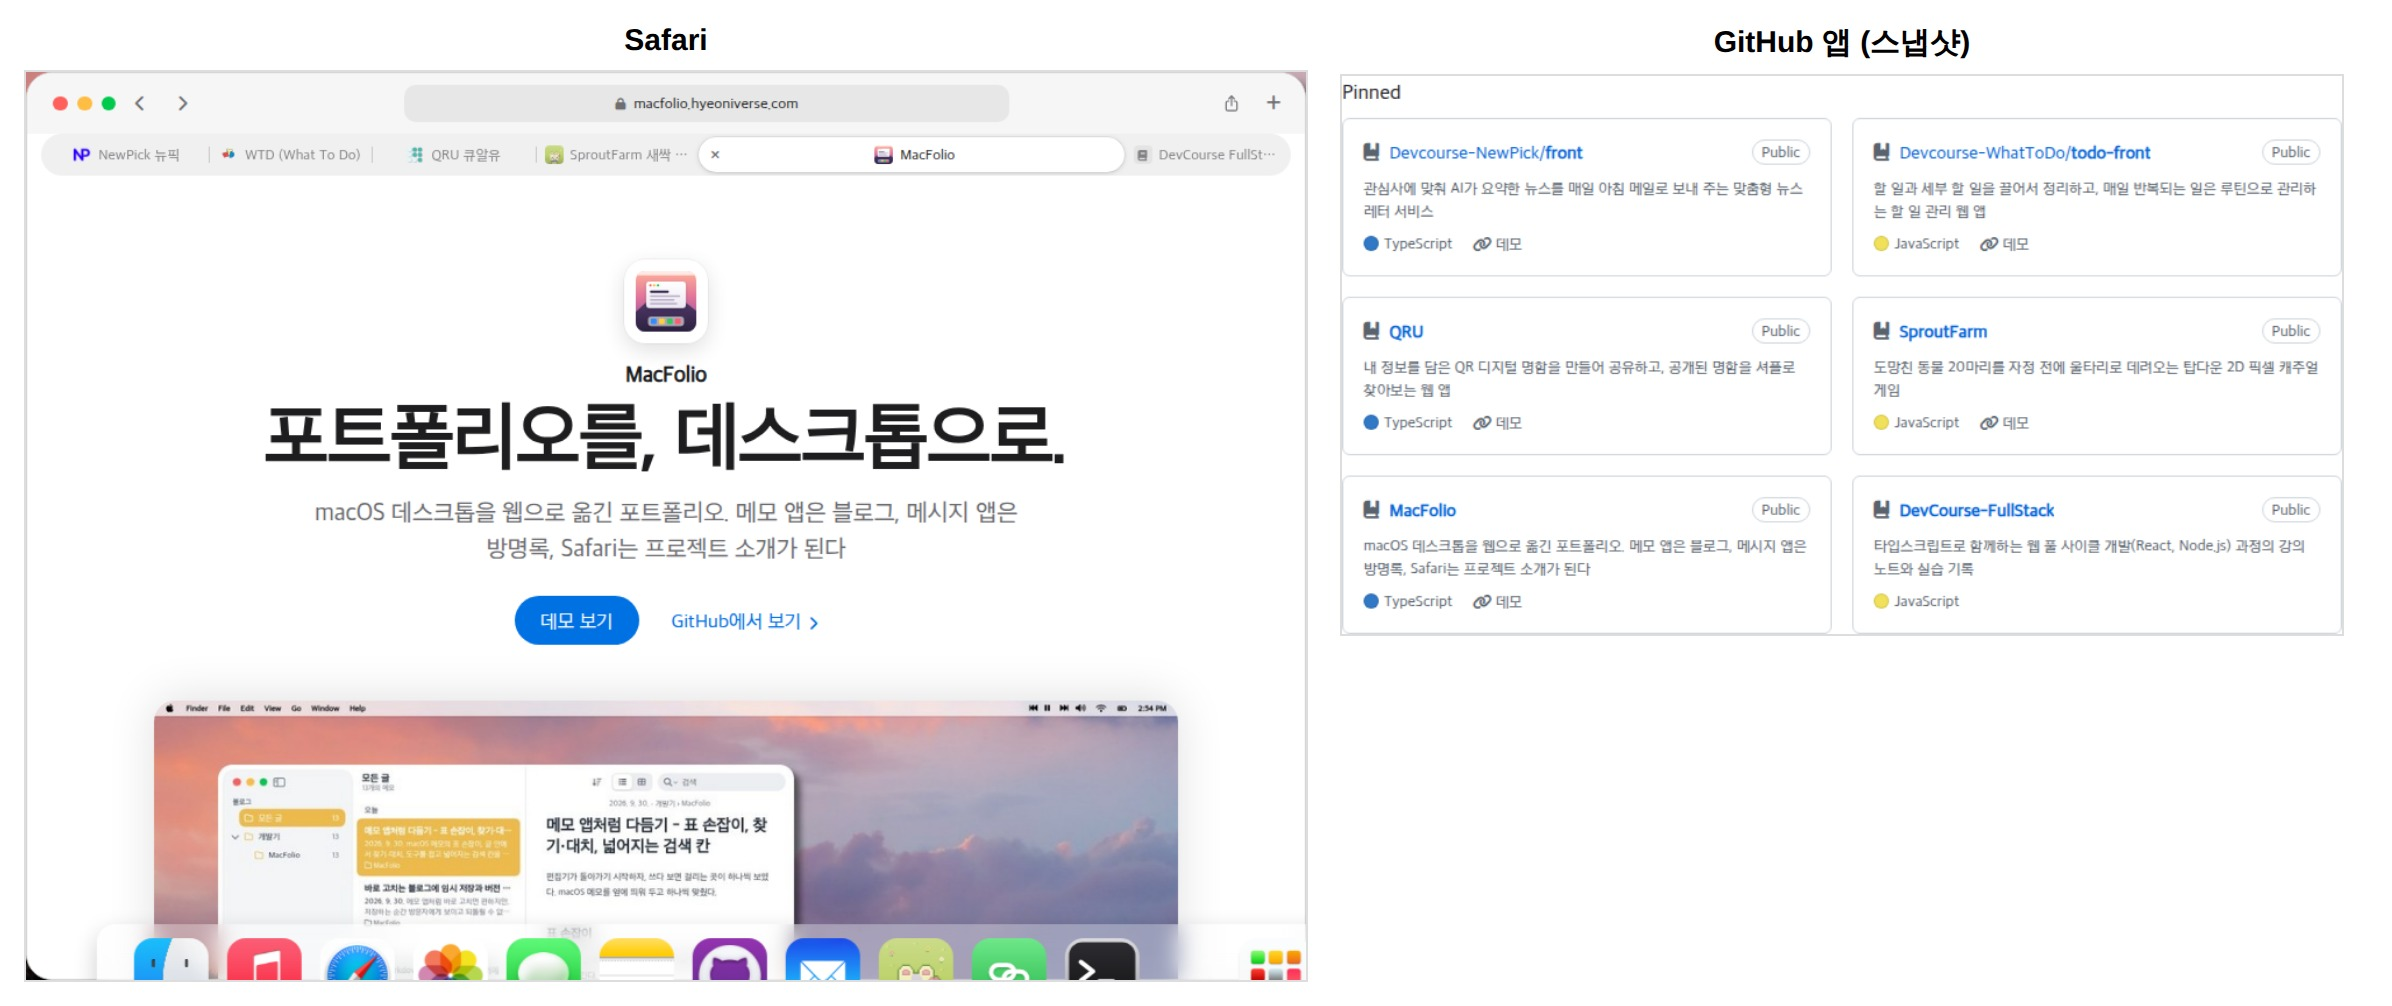
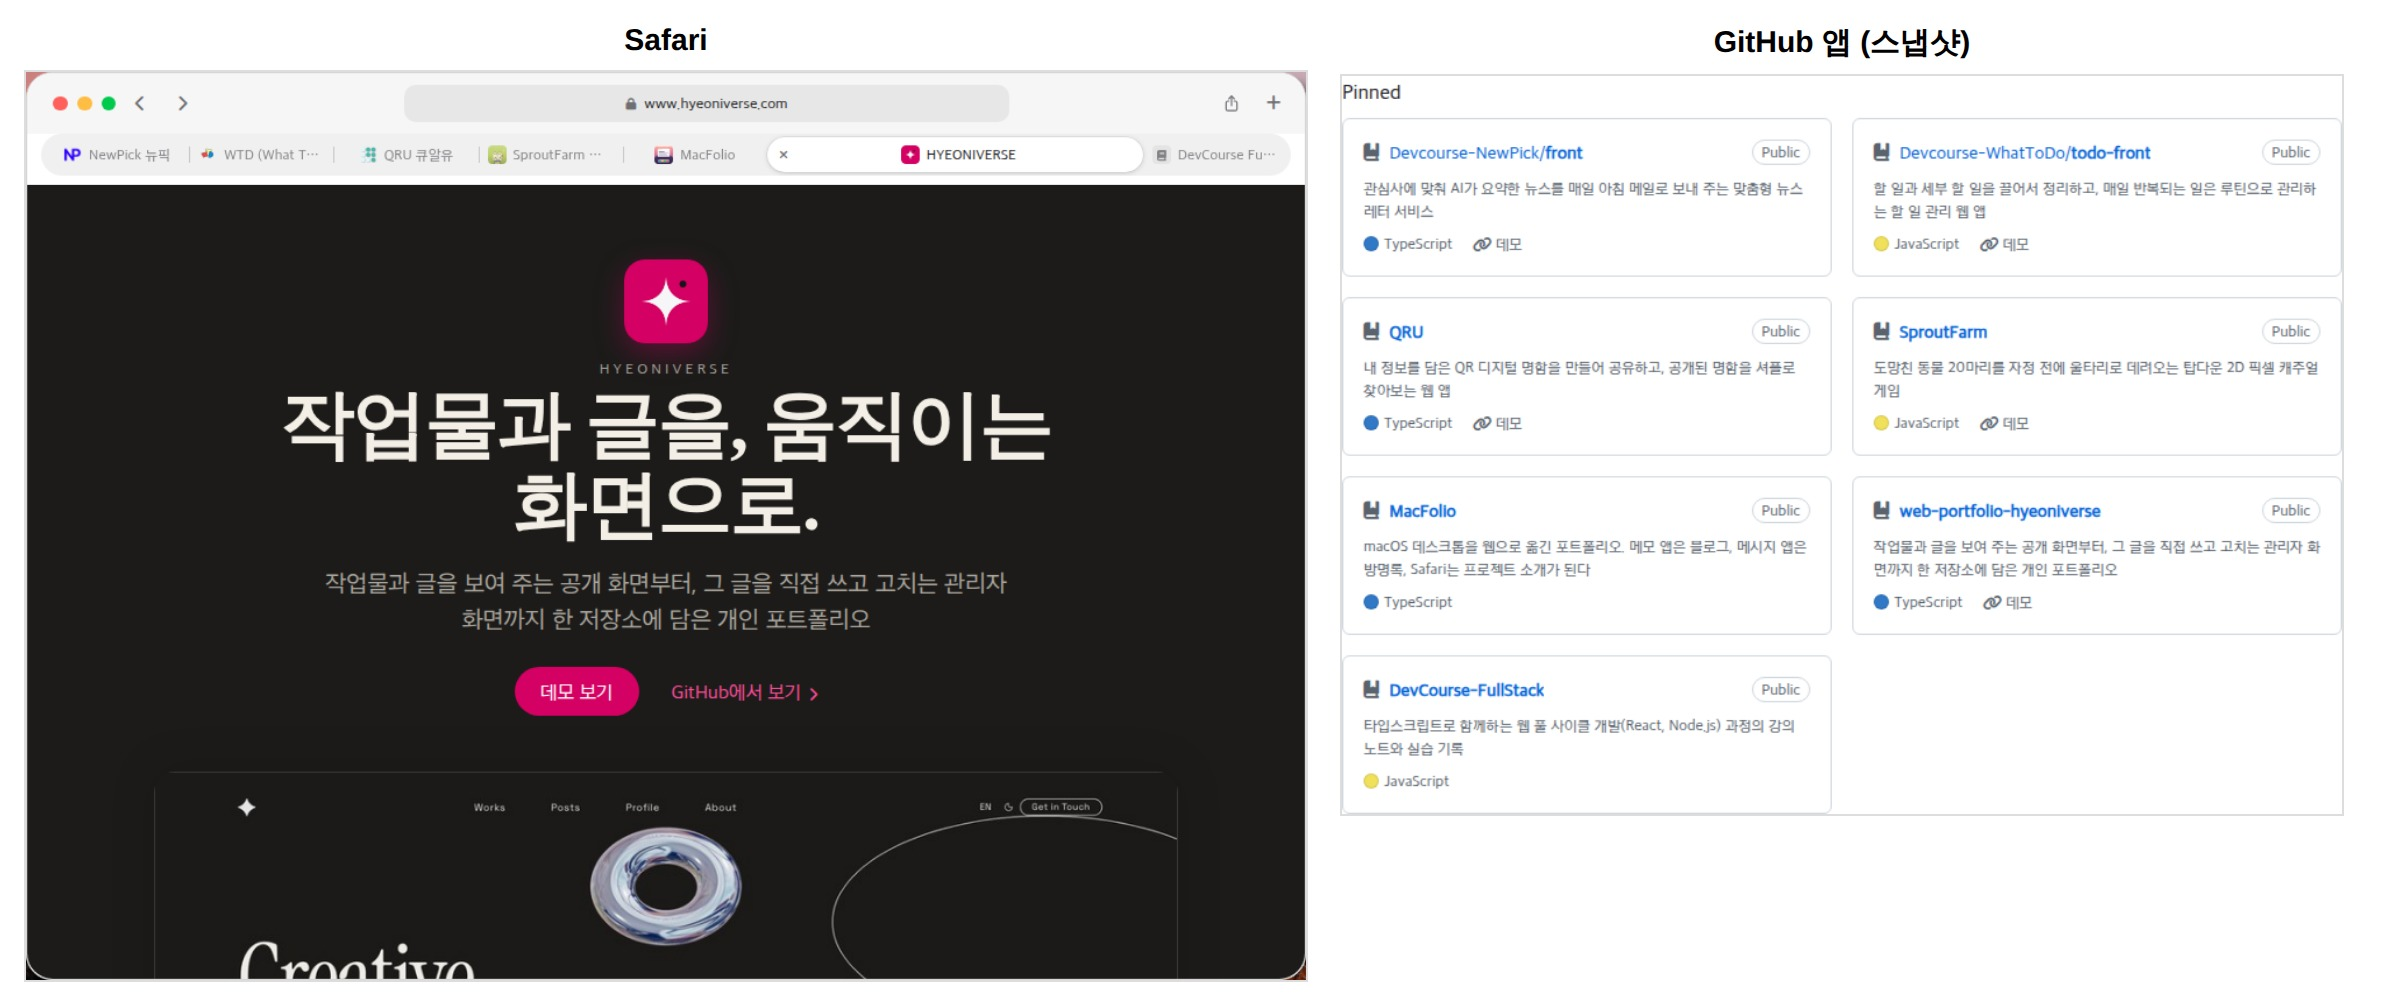
docs(memo): HYEONIVERSE 프로젝트와 탭 폭 이야기 더하기

diff --git a/apps/react/src/apps/memo/content/projects-one-list.md b/apps/react/src/apps/memo/content/projects-one-list.md
@@ -1,13 +1,13 @@
 ---
-title: 프로젝트 목록은 한 곳에 - MacFolio를 프로젝트로 더하며
+title: 프로젝트 목록은 한 곳에 - MacFolio와 HYEONIVERSE를 프로젝트로 더하며
 date: 2026-10-03
 category: 개발기/MacFolio
-summary: 이 사이트(MacFolio)를 프로젝트로 넣으려다 보니, 프로젝트 목록이 GitHub 앱에만 따로 적혀 있었다. GitHub 앱의 스냅샷이 Safari·Finder와 같은 목록을 읽게 바꾸고, MacFolio는 그 목록에 한 번만 더했다.
+summary: 이 사이트(MacFolio)를 프로젝트로 넣으려다 보니, 프로젝트 목록이 GitHub 앱에만 따로 적혀 있었다. GitHub 앱의 스냅샷이 Safari·Finder와 같은 목록을 읽게 바꾸고, MacFolio와 포트폴리오 사이트(HYEONIVERSE)는 그 목록에 한 번씩만 더했다.
 ---
 
 GitHub 앱의 고정 저장소에 MacFolio를 넣었더니, Safari 탭에도 Finder의 프로젝트 폴더에도 MacFolio가 없었다. 같은 프로젝트 이야기인데 한쪽에만 생긴 것이다.
 
-![Safari와 GitHub 앱](./images/projects-one-list.jpg '왼쪽: Safari의 MacFolio 페이지 / 오른쪽: 같은 목록에서 만든 GitHub 앱의 고정 저장소')
+![Safari와 GitHub 앱](./images/projects-one-list.jpg '왼쪽: Safari의 HYEONIVERSE 페이지 / 오른쪽: 같은 목록에서 만든 GitHub 앱의 고정 저장소')
 
 ## 목록이 두 개였다
 
@@ -21,8 +21,13 @@ GitHub 앱의 고정 저장소에 MacFolio를 넣었더니, Safari 탭에도 Fin
 
 서버가 GitHub에서 받아 보여 주는 고정 저장소는 관리자가 시스템 설정에서 고른다. 이것은 화면 코드가 아니라 서버 DB에 저장되는 값이라 `PROJECTS`와 묶지 않았다. 묶으면 배포 없이 저장소를 바꾸는 기능이 사라진다. 스냅샷은 서버를 못 쓸 때의 대비책이니 코드 안의 목록을 따르고, 실제 화면은 관리자가 고른 값을 따른다.
 
-## MacFolio 페이지
+## 두 프로젝트의 페이지
 
-Safari의 프로젝트 페이지는 프로젝트마다 모양(look)이 다르다. 뉴스레터는 신문, 게임은 게임 화면처럼 꾸몄다. MacFolio는 macOS를 흉내 낸 사이트라서, 따로 꾸미지 않은 Apple 제품 페이지 모양(`product`)을 그대로 쓴다. 아이콘은 노을 진 바탕화면 위에 창 하나와 Dock을 올린 그림으로 새로 그렸다.
+Safari의 프로젝트 페이지는 프로젝트마다 모양(look)이 다르다. 뉴스레터는 신문, 게임은 게임 화면처럼 꾸몄다.
 
-페이지에는 이 사이트의 기술 사양과 함께 서버 쪽 이야기(GitHub OAuth 관리자 로그인, 포트를 열지 않는 Cloudflare Tunnel, 시험을 통과해야 배포)를 실었다. 자세한 내용은 [MacFolio 백엔드 한 장으로 보기](/memo/backend-design)에 있다.
+- **MacFolio**: macOS를 흉내 낸 사이트라서, 따로 꾸미지 않은 Apple 제품 페이지 모양(`product`)을 그대로 쓴다. 아이콘은 노을 진 바탕화면 위에 창 하나와 Dock을 올린 그림으로 새로 그렸다. 지금 보고 있는 화면이 곧 데모라서 "데모 보기" 단추는 두지 않고, 주소창에는 저장소 주소가 보인다. 서버 쪽 이야기는 [MacFolio 백엔드 한 장으로 보기](/memo/backend-design)에 있다.
+- **HYEONIVERSE**: Next.js와 Supabase로 만든 포트폴리오 사이트다. 그 사이트의 첫 화면처럼 어두운 바탕에 세리프 제목을 쓰는 모양(`creative`)을 새로 만들고, 색은 사이트의 마젠타(#d40063)를 따랐다.
+
+## 탭이 일곱 개가 되자
+
+프로젝트가 일곱 개가 되니 좁은 Safari 창에서 지금 탭의 제목까지 잘렸다. 탭 폭은 몫(flex-grow)으로 나누는데, 탭 수가 늘면 지금 탭이 많이 가져가도 모자랐다. 그래서 지금 탭은 제목 길이보다 작아지지 않게(`min-width: max-content`) 하고, 나머지 탭이 그만큼 더 줄어들게 했다.
